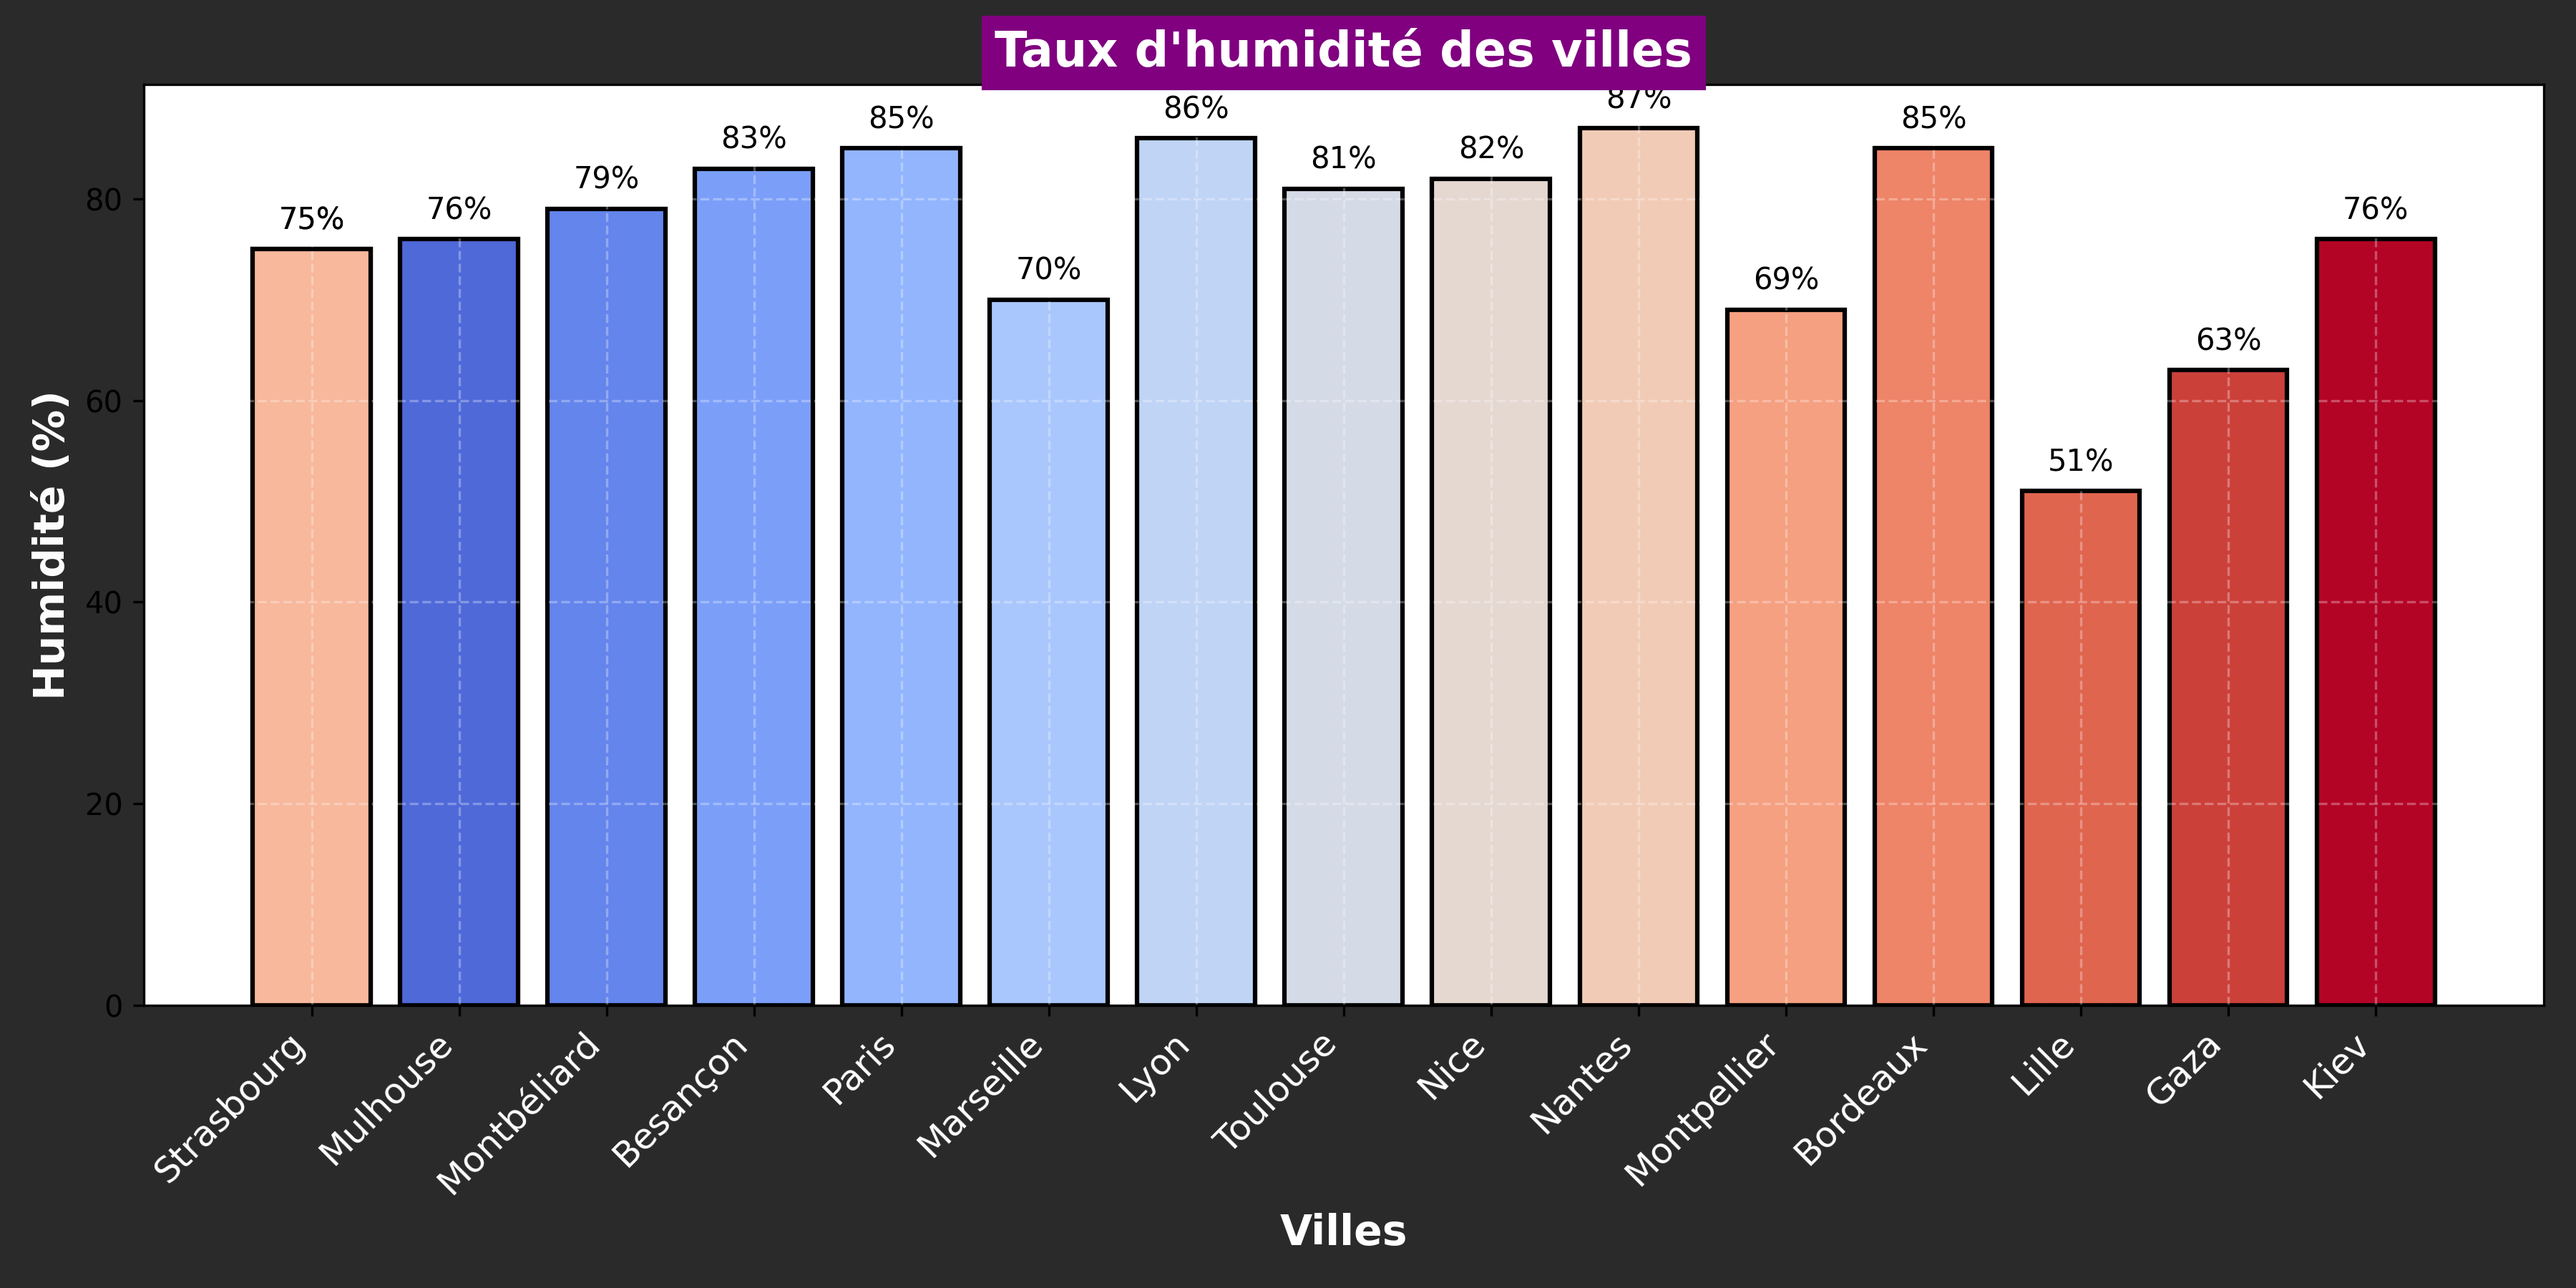
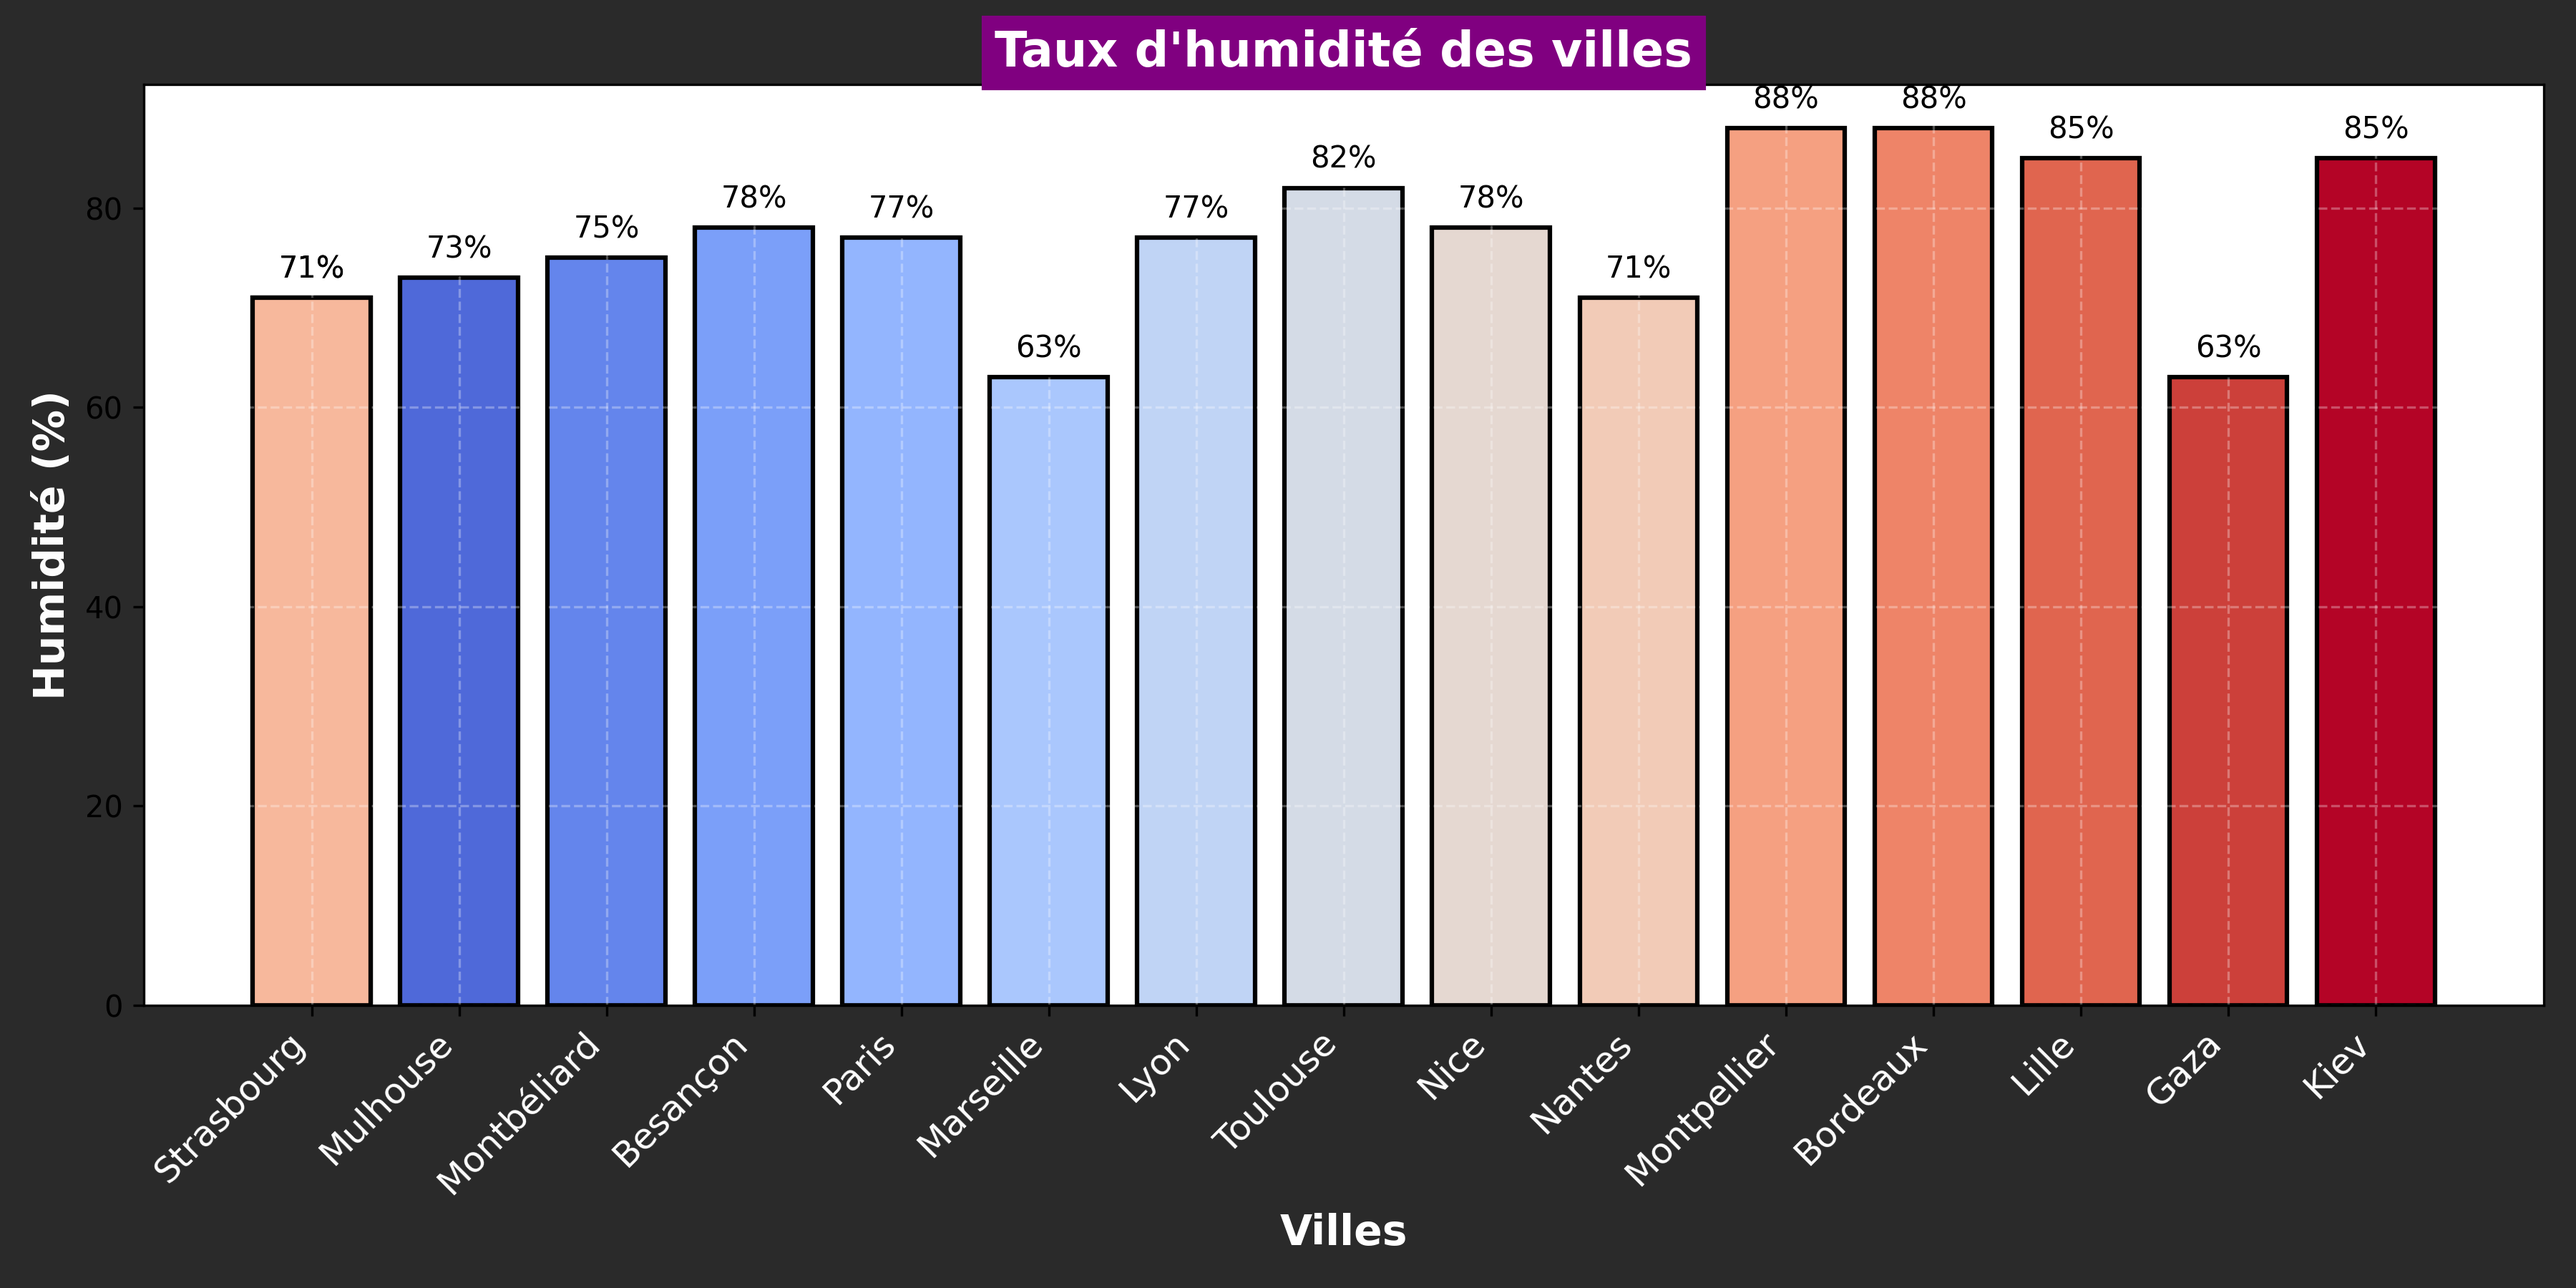
Mise à jour de la météo et ajout du graphique d'humidité

diff --git a/README.md b/README.md
@@ -24,103 +24,103 @@ Ce repo contient plusieurs workflows GitHub Actions :
 ## Météo actuelle :
 ## Météo des grandes villes + Gaza et Kiev 🌍
 
-🕒 Mise à jour : 18/05/2025 08:16:29
+🕒 Mise à jour : 19/05/2025 08:18:41
 
 ### 🌍 Strasbourg ☀
 **Conditions :** ciel dégagé
-**Température :** 12.35°C
-**Humidité :** 75%
-**Vent :** 1.91 m/s
+**Température :** 12°C
+**Humidité :** 71%
+**Vent :** 2.57 m/s
 
-### 🌍 Mulhouse 🌥
+### 🌍 Mulhouse ☀
+**Conditions :** ciel dégagé
+**Température :** 11.96°C
+**Humidité :** 73%
+**Vent :** 0 m/s
+
+### 🌍 Montbéliard 🌥
 **Conditions :** nuageux
-**Température :** 11.38°C
-**Humidité :** 76%
-**Vent :** 0.45 m/s
+**Température :** 13.32°C
+**Humidité :** 75%
+**Vent :** 3.75 m/s
 
-### 🌍 Montbéliard ☀
-**Conditions :** ciel dégagé
-**Température :** 11.66°C
-**Humidité :** 79%
-**Vent :** 1.43 m/s
-
-### 🌍 Besançon ☀
-**Conditions :** ciel dégagé
-**Température :** 10.5°C
-**Humidité :** 83%
-**Vent :** 0.26 m/s
+### 🌍 Besançon 🌥
+**Conditions :** nuageux
+**Température :** 12.17°C
+**Humidité :** 78%
+**Vent :** 0.88 m/s
 
 ### 🌍 Paris ☀
 **Conditions :** ciel dégagé
-**Température :** 10.54°C
-**Humidité :** 85%
-**Vent :** 1.64 m/s
+**Température :** 10.99°C
+**Humidité :** 77%
+**Vent :** 3.6 m/s
 
-### 🌍 Marseille ☀
+### 🌍 Marseille 🌥
+**Conditions :** nuageux
+**Température :** 17.16°C
+**Humidité :** 63%
+**Vent :** 2.68 m/s
+
+### 🌍 Lyon 🌥
+**Conditions :** nuageux
+**Température :** 10.63°C
+**Humidité :** 77%
+**Vent :** 0.62 m/s
+
+### 🌍 Toulouse ☀
 **Conditions :** ciel dégagé
-**Température :** 14.73°C
-**Humidité :** 70%
-**Vent :** 1.1 m/s
-
-### 🌍 Lyon ☀
-**Conditions :** ciel dégagé
-**Température :** 7.56°C
-**Humidité :** 86%
-**Vent :** 0.48 m/s
-
-### 🌍 Toulouse 🌥
-**Conditions :** partiellement nuageux
-**Température :** 14.75°C
-**Humidité :** 81%
-**Vent :** 1.64 m/s
-
-### 🌍 Nice ☀
-**Conditions :** ciel dégagé
-**Température :** 9.16°C
+**Température :** 16.99°C
 **Humidité :** 82%
-**Vent :** 0.54 m/s
+**Vent :** 3.6 m/s
+
+### 🌍 Nice 🌥
+**Conditions :** peu nuageux
+**Température :** 11.94°C
+**Humidité :** 78%
+**Vent :** 0.6 m/s
 
 ### 🌍 Nantes ☀
 **Conditions :** ciel dégagé
-**Température :** 10°C
-**Humidité :** 87%
-**Vent :** 3.51 m/s
+**Température :** 12.96°C
+**Humidité :** 71%
+**Vent :** 5.14 m/s
 
 ### 🌍 Strasbourg ☀
 **Conditions :** ciel dégagé
-**Température :** 12.35°C
-**Humidité :** 75%
-**Vent :** 1.91 m/s
+**Température :** 12°C
+**Humidité :** 71%
+**Vent :** 2.57 m/s
 
-### 🌍 Montpellier ☀
-**Conditions :** ciel dégagé
-**Température :** 15.83°C
-**Humidité :** 69%
-**Vent :** 0.89 m/s
+### 🌍 Montpellier 🌧
+**Conditions :** légère pluie
+**Température :** 16.94°C
+**Humidité :** 88%
+**Vent :** 4.12 m/s
 
-### 🌍 Bordeaux 🌥
-**Conditions :** nuageux
-**Température :** 12.94°C
+### 🌍 Bordeaux ⚡
+**Conditions :** orage
+**Température :** 17.15°C
+**Humidité :** 88%
+**Vent :** 8.23 m/s
+
+### 🌍 Lille 🌫
+**Conditions :** brume
+**Température :** 10.45°C
 **Humidité :** 85%
-**Vent :** 1.95 m/s
+**Vent :** 2.57 m/s
 
-### 🌍 Lille 🌥
-**Conditions :** couvert
-**Température :** 11.24°C
-**Humidité :** 51%
-**Vent :** 3.8 m/s
-
-### 🌍 Gaza 🌥
-**Conditions :** couvert
-**Température :** 24.11°C
+### 🌍 Gaza ☀
+**Conditions :** ciel dégagé
+**Température :** 22.38°C
 **Humidité :** 63%
-**Vent :** 1.82 m/s
+**Vent :** 2.68 m/s
 
 ### 🌍 Kiev 🌥
 **Conditions :** nuageux
-**Température :** 10.8°C
-**Humidité :** 76%
-**Vent :** 4.01 m/s
+**Température :** 14.29°C
+**Humidité :** 85%
+**Vent :** 0.45 m/s
 
 <p align='center'><img src='https://raw.githubusercontent.com/khoa083/khoa/main/Khoa_ne/img/Rainbow.gif' width='100%' style='border-radius: 5px; border: 3px solid #39FF14; box-shadow: 0 0 10px #39FF14, 0 0 20px #39FF14;' /></p>
 
